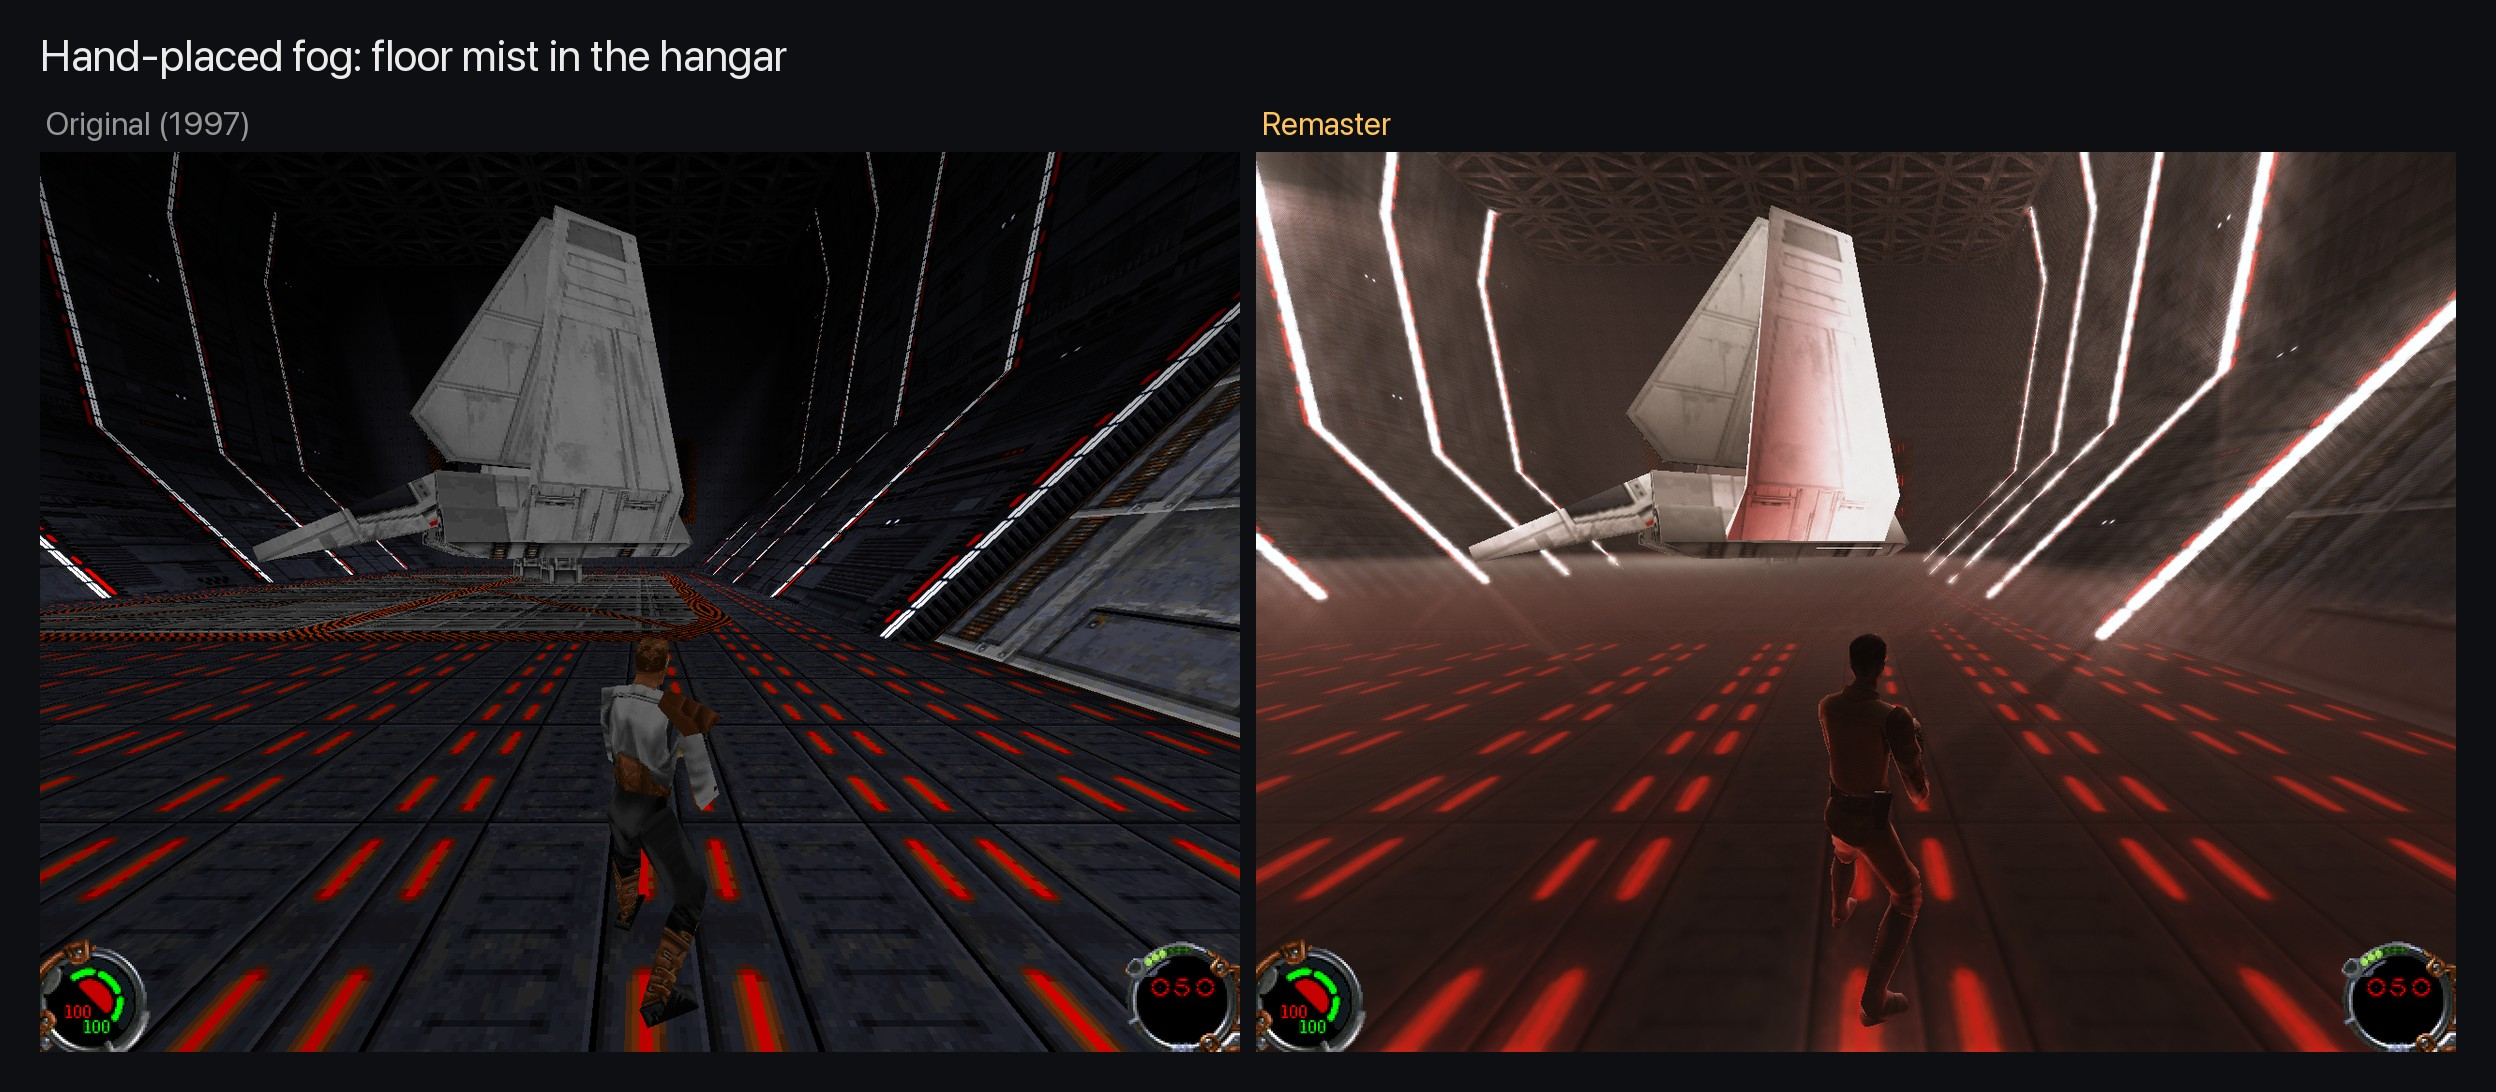
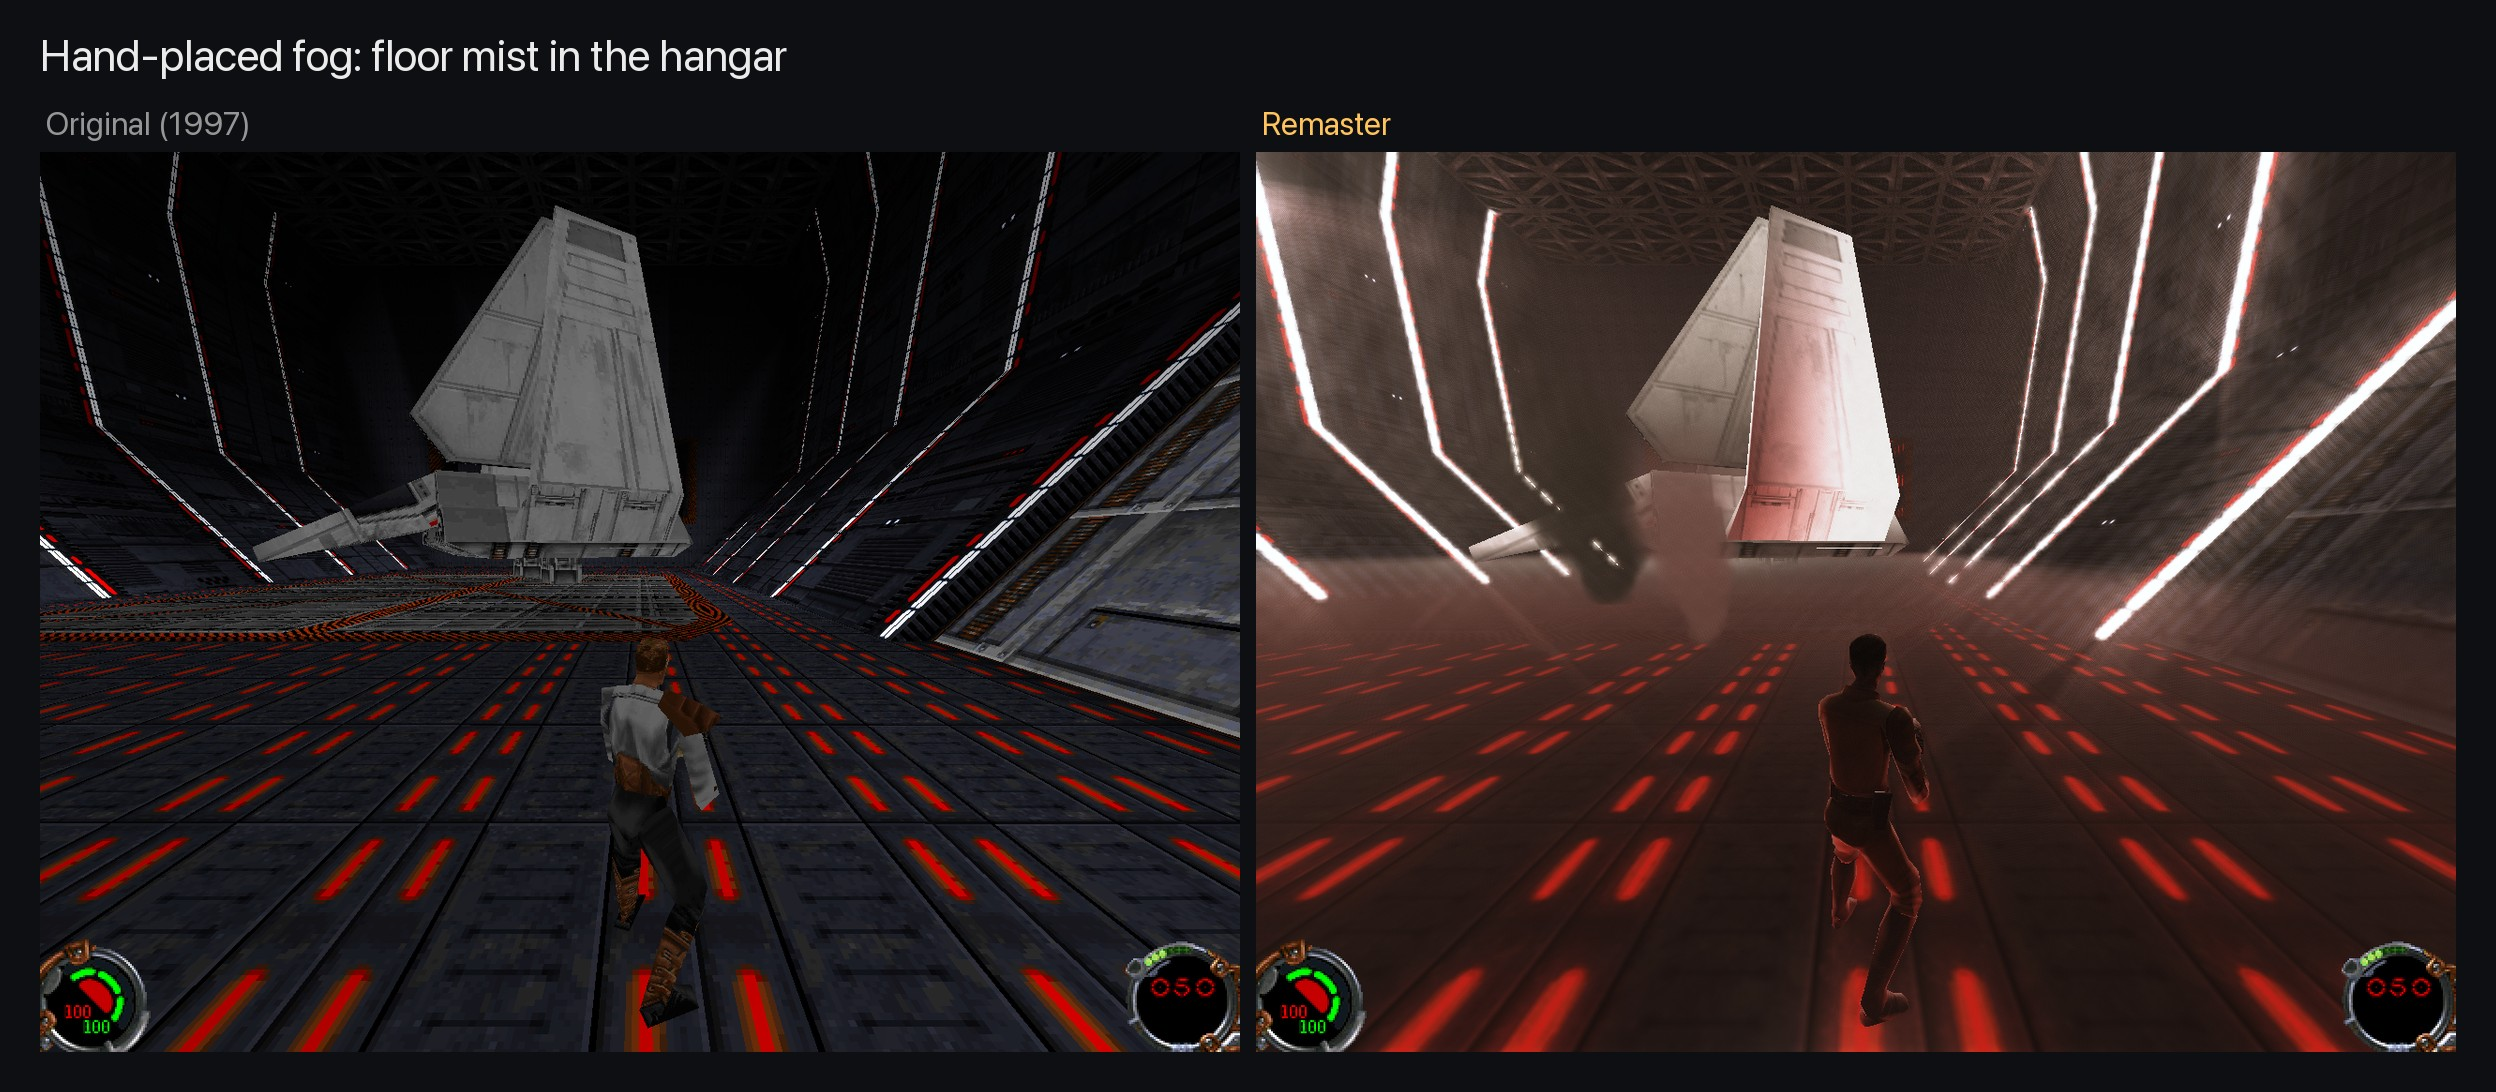
Homepage: smoke and steam

Changed region(s): [[0.5938, 0.4048, 0.7188, 0.5604]]

diff --git a/docs/DECISIONS.md b/docs/DECISIONS.md
@@ -649,3 +649,9 @@ Dom approved docs/stage2-atmosphere-plan.md. Branch `stage2-atmosphere`.
 - Volumes live in the repo (`atmos/<level>.json`: placement data, not game assets); the game reads them as `jkgm/atmos/<level>.json` through a link run.sh and capture.sh create (`hd/jkgm/atmos -> atmos`).
 - Engine: `stdJSON_ReadObjectArray` (generic: an array of objects of numbers), `sithAtmos_GetVolumes` hands the 16 nearest volumes (within 150 units) to the fog shader, which adds each one's density along the ray with a soft edge, the same drifting noise, and its tint as the fog's colour there (white takes the light's colour; darker reads as smoke). `r_fogVolumes` (on).
 - First placement: the hangar, a low floor mist (density 2.5, 0.22 units deep) and a soft haze round the shuttle: red-lit mist with the strips glowing through it (docs/screenshots/stage2-fog-volumes-hangar.jpg). Cost within noise.
+
+**Atmosphere step 5: smoke and steam.** Emitters live in the same `atmos/<level>.json` ("emitters": centre, kind 0 steam / 1 smoke, rate, life, size, grow, rise, spread, drift, tint, opacity) and are placed with the same Blender add-on (Add Steam / Add Smoke; round trip tested).
+- No simulation state: `sithAtmos_GetParticles` derives every particle from the time (each emitter cycles rate x life particles, up to 24, through birth to death with a fresh random offset each cycle), only for emitters within 60 units.
+- Drawing: one full-screen pass (`smoke_f.glsl`). The CPU projects up to 64 particles with the fog's camera data and sorts them far to near; the shader draws each as a noise puff that turns and billows with age inside a soft round edge, fades in and out over its life, fades where it meets geometry (soft particles, from the depth target) and is lit by the baked light in the air (the light volume, as the fog). Steam takes the light's colour; smoke darkens by its tint. `r_smoke` (on). No textures needed; flipbooks can replace the noise later.
+- A projection check that looked wrong wasn't: the third-person camera sits 0.2 units behind and 0.1 above Kyle, so a vent 2 units ahead really is near the horizon. Demo emitters moved next to Kyle.
+- Hangar: a steam vent and a smoke column by Kyle (docs/screenshots/stage2-smoke-hangar.jpg). Cost within noise (~106-119 fps).

diff --git a/.github/README.md b/.github/README.md
@@ -67,7 +67,8 @@ That breaks down into concrete engine work:
 - [x] Volumetric fog lit by the baked light (`r_volumetricFog`, all 25 levels)
 - [x] Height fog on outdoor levels, distance fog
 - [x] Fog volumes placed by hand in Blender (`tools/blender/atmos_volumes.py`)
-- [ ] Atmosphere, continued: smoke and steam emitters, dust ([plan](../docs/stage2-atmosphere-plan.md))
+- [x] Smoke and steam emitters, placed in Blender, lit by the bake
+- [ ] Atmosphere, continued: dust in the light, shaft occlusion ([plan](../docs/stage2-atmosphere-plan.md))
 - [x] One-switch preset: `remaster 1` in the console
 
 ### Stage 3 checklist
@@ -139,6 +140,10 @@ Six levels, 1997 vs remaster:
 
 ![Hand-placed floor mist in the hangar](../docs/screenshots/stage2-fog-volumes-hangar.jpg)
 
+**Smoke and steam:** emitters placed in the same Blender add-on, drawn as soft puffs that billow and rise, fade into floors and walls, and take the baked light around them:
+
+![Smoke and steam in the hangar](../docs/screenshots/stage2-smoke-hangar.jpg)
+
 **Skies:** a volumetric cloud sky on the storm levels and presets for the rest (Nar Shaddaa smog, Sulon overcast, day and sunset skies):
 
 ![Skies, 1997 vs remaster](../docs/screenshots/stage2-volumetric-sky.jpg)
@@ -161,7 +166,7 @@ Six levels, 1997 vs remaster:
 
 ![Cutscenes, original vs upscale](../docs/screenshots/stage5-cutscenes-hd.jpg)
 
-Next up: [atmosphere](../docs/stage2-atmosphere-plan.md), continued: smoke and steam emitters, dust in the light.
+Next up: [atmosphere](../docs/stage2-atmosphere-plan.md), continued: dust in the light, light shafts that stop at walls.
 
 Decisions, findings and dead ends are logged as I go in [docs/DECISIONS.md](../docs/DECISIONS.md).
 
